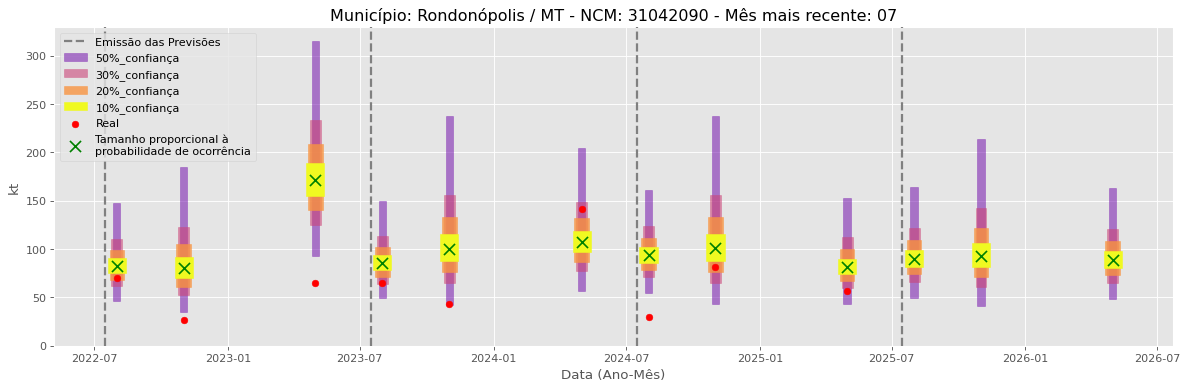
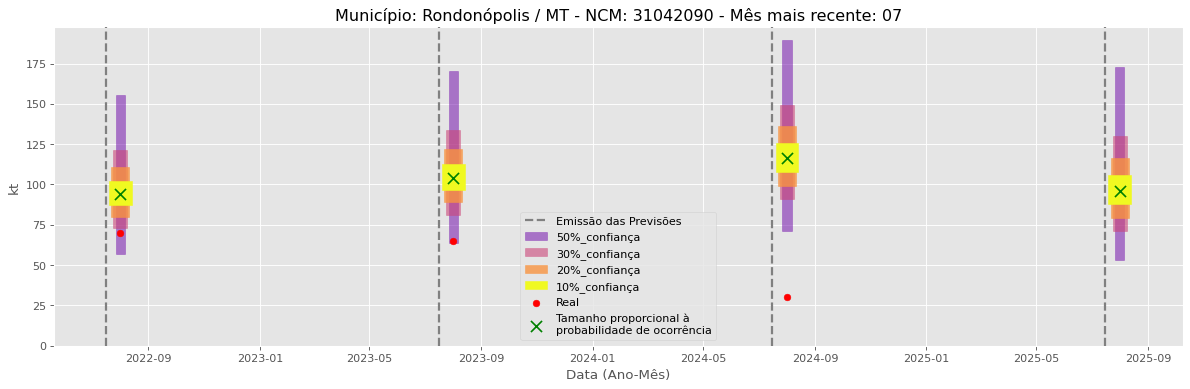
Atualização automática em lote

diff --git a/README.md b/README.md
@@ -24,7 +24,7 @@ Previsão Influenciada:
 - Mês previsto: 08
 
 
-Fator Influenciador: Comex
+Fator Influenciador: Quantidade em Comex
 - Unidade Federativa: MG
 - Grupo de Produto (SH2): Adubos (fertilizantes)-31 
 - Mês: 9
@@ -45,9 +45,30 @@ Previsão Influenciada:
 - Mês previsto: 08
 
 
-Fator Influenciador: Comex
+Fator Influenciador: Quantidade em Comex
 - Unidade Federativa: SP
 - Grupo de Produto (SH2): Veículos automóveis, tratores, ciclos e outros veículos terrestres, suas partes e acessórios-87 
+- Mês: 9
+- Unidade: price_mun_lag13
+
+
+
+
+
+
+
+![Gráfico de Previsão](31042090.png)
+Fator de Influência em Destaque:
+Previsões emitidas no mês 8.
+Previsão Influenciada:
+- Município: Rondonópolis
+- Produto (NCM): Outros cloretos de potássio-31042090 
+- Mês previsto: 08
+
+
+Fator Influenciador: Quantidade em Comex
+- Unidade Federativa: SC
+- Grupo de Produto (SH2): Sementes e frutos oleaginosos; grãos, sementes e frutos diversos; plantas industriais ou medicinais; palhas e forragens-12 
 - Mês: 9
 - Unidade: price_mun_lag13
 
